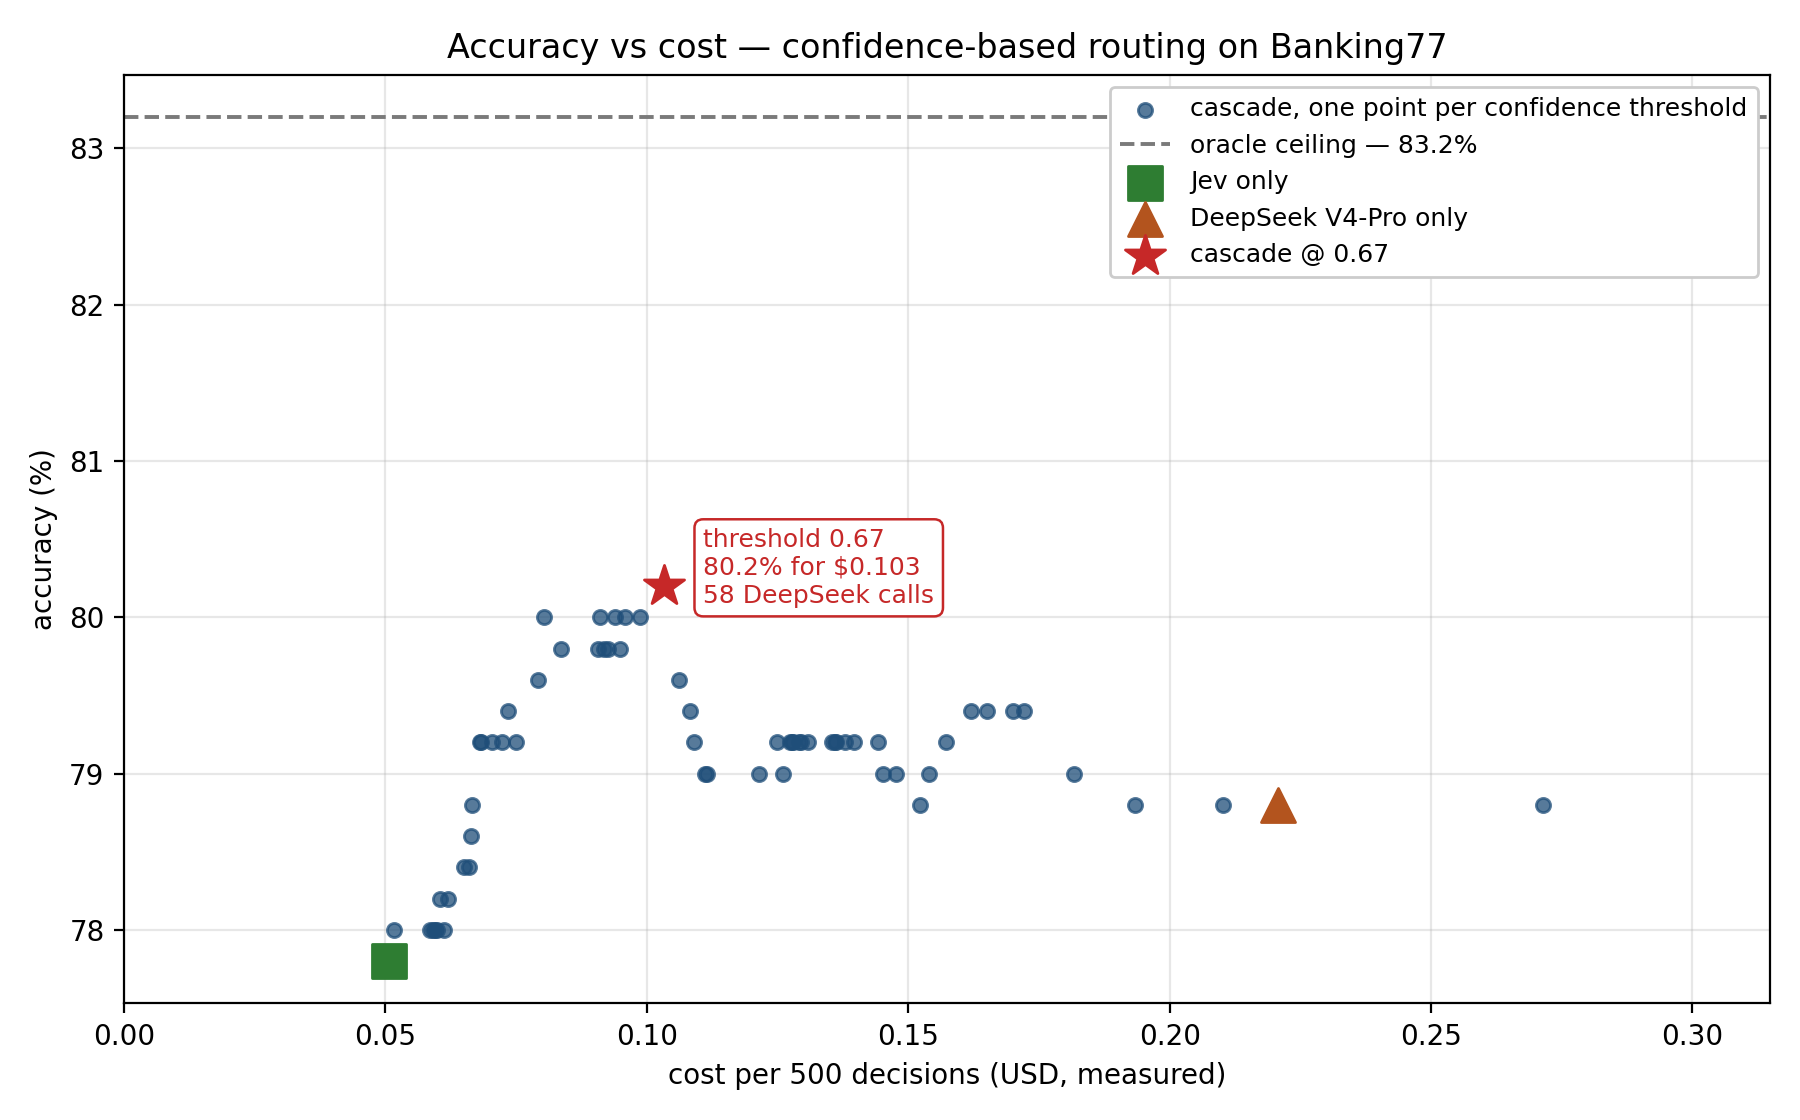
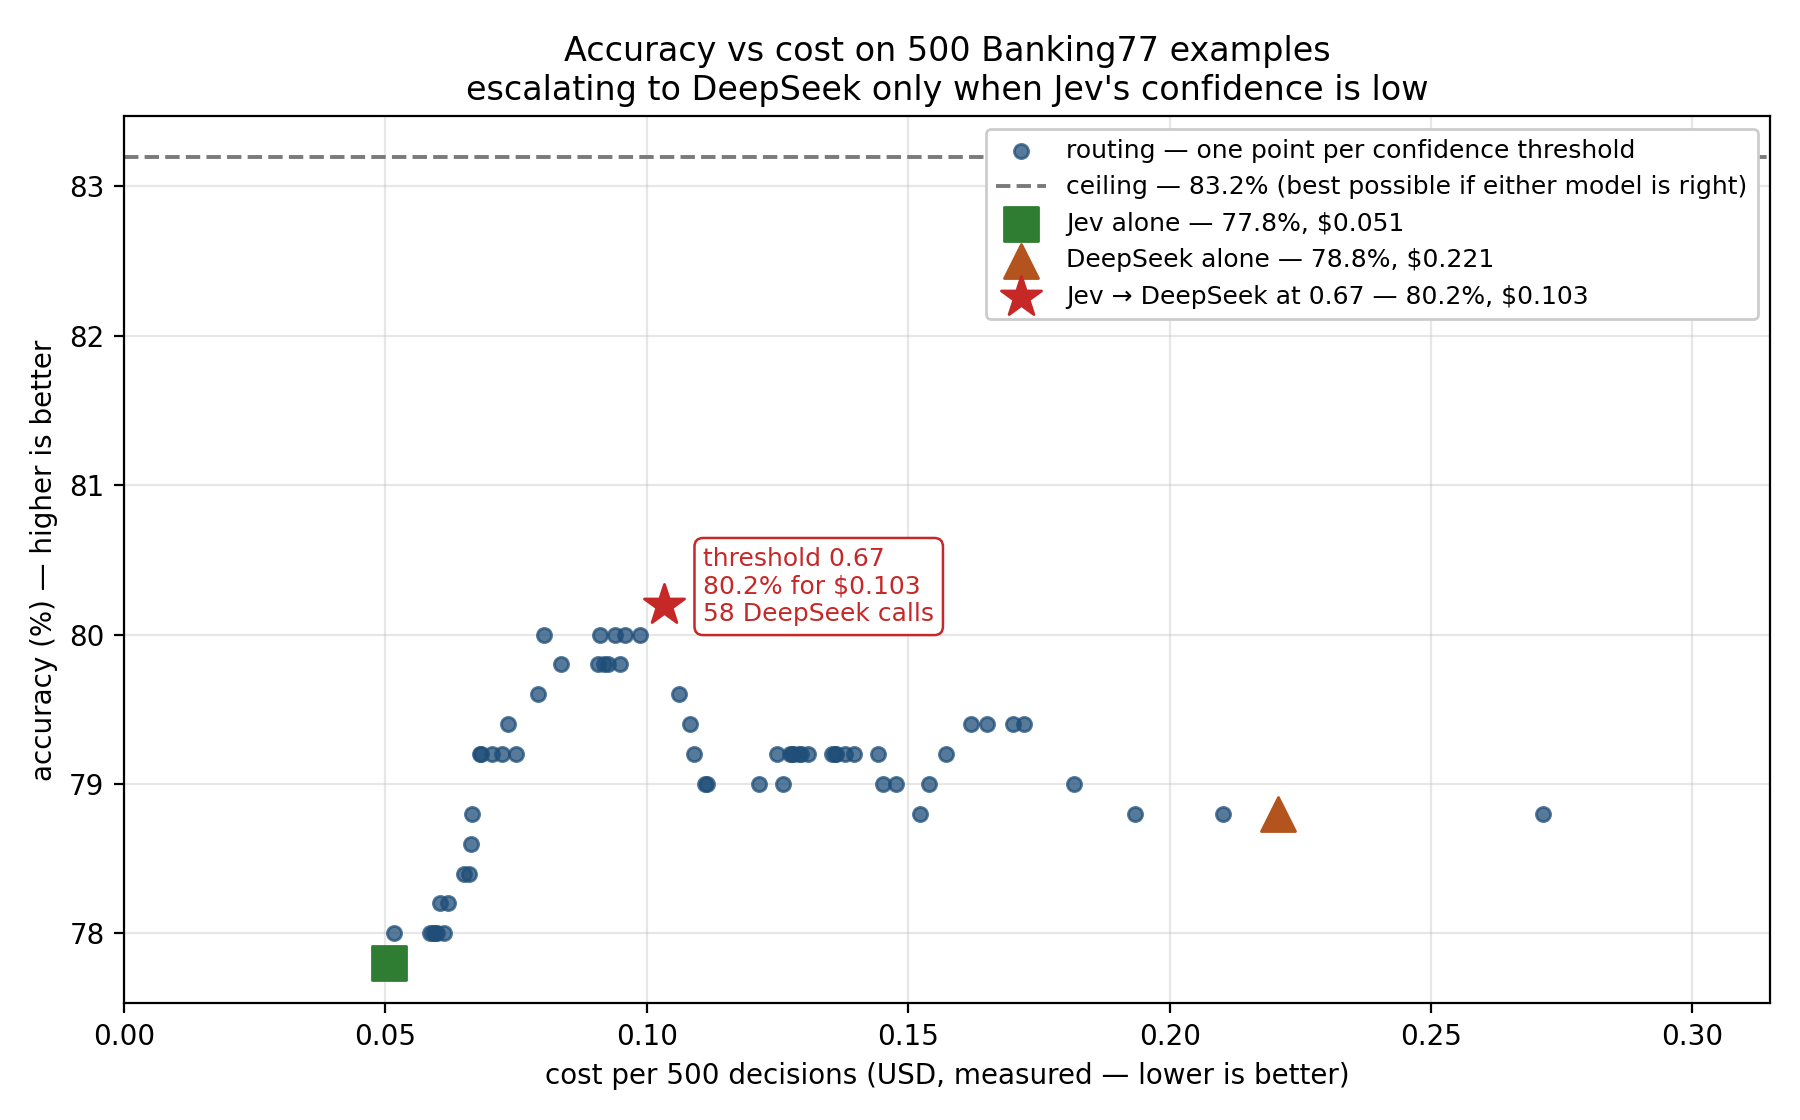
README: a plain-language opening, the figure on top, and a TL;DR
The scientific content is unchanged. This only builds a better front
door, so that someone who knows neither Jev nor calibration can see in a
few seconds that there is a result here and that it can be re-run.

A short hook now opens the file, followed immediately by the accuracy
versus cost figure and a three-bullet TL;DR, before the technical
paragraph. The previous one-line headline is removed: it said what the
hook's second paragraph now says, and it quoted a cost ratio, which is
not the point and depends on pricing and cache behaviour. Every figure in
the opening stays tied to the 500 Banking77 examples, and nothing claims
anything about Jev in general.

The figure is regenerated by cascade.py, not redrawn. Its labels lost
their jargon so it can be read without opening METHOD.md: the ceiling
line now explains itself as the best possible if either model is right,
the reference points carry their own numbers, the star reads as Jev to
DeepSeek at 0.67, and both axes say which direction is better. The cost
axis stays linear, so Jev alone remains visible at the left edge and
absolute costs stay comparable by eye.

Sections below the opening are untouched: Calibration and its
overconfidence line, the AUROC and bootstrap results, Agreement,
Limitations, Reproduction, Related work. The calibration figure stays in
the Calibration section, where it belongs.

diff --git a/src/cascade.py b/src/cascade.py
@@ -100,18 +100,24 @@ def plot_accuracy_vs_cost(results: list[dict], refs: dict, path: Path) -> None:
     xs = [s["cost"] for s in results]
     ys = [s["accuracy"] * 100 for s in results]
     ax.scatter(xs, ys, s=26, color="#1f4e79", alpha=0.75, zorder=3,
-               label="cascade, one point per confidence threshold")
+               label="routing — one point per confidence threshold")
 
+    # Libelles explicites : la figure doit se lire sans avoir ouvert METHOD.md.
     ax.axhline(refs["oracle"] * 100, linestyle="--", linewidth=1.4, color="#7a7a7a",
-               zorder=2, label=f"oracle ceiling — {refs['oracle']*100:.1f}%")
+               zorder=2,
+               label=f"ceiling — {refs['oracle']*100:.1f}% (best possible if either model is right)")
     ax.scatter([refs["jev_cost"]], [refs["jev_acc"] * 100], s=150, marker="s",
-               color="#2e7d32", zorder=5, label="Jev only")
+               color="#2e7d32", zorder=5,
+               label=f"Jev alone — {refs['jev_acc']*100:.1f}%, ${refs['jev_cost']:.3f}")
     ax.scatter([refs["frontier_cost"]], [refs["frontier_acc"] * 100], s=150, marker="^",
-               color="#b3541e", zorder=5, label="DeepSeek V4-Pro only")
+               color="#b3541e", zorder=5,
+               label=f"DeepSeek alone — {refs['frontier_acc']*100:.1f}%, ${refs['frontier_cost']:.3f}")
 
     best = max(results, key=lambda s: s["accuracy"])
     ax.scatter([best["cost"]], [best["accuracy"] * 100], s=230, marker="*",
-               color="#c62828", zorder=6, label=f"cascade @ {best['threshold']:.2f}")
+               color="#c62828", zorder=6,
+               label=f"Jev → DeepSeek at {best['threshold']:.2f} — "
+                     f"{best['accuracy']*100:.1f}%, ${best['cost']:.3f}")
     ax.annotate(
         f"threshold {best['threshold']:.2f}\n{best['accuracy']*100:.1f}% "
         f"for ${best['cost']:.3f}\n{best['n_escalated']} DeepSeek calls",
@@ -121,9 +127,11 @@ def plot_accuracy_vs_cost(results: list[dict], refs: dict, path: Path) -> None:
                   edgecolor="#c62828", linewidth=0.9),
     )
 
-    ax.set_xlabel("cost per 500 decisions (USD, measured)")
-    ax.set_ylabel("accuracy (%)")
-    ax.set_title("Accuracy vs cost — confidence-based routing on Banking77")
+    ax.set_xlabel("cost per 500 decisions (USD, measured — lower is better)")
+    ax.set_ylabel("accuracy (%) — higher is better")
+    ax.set_title("Accuracy vs cost on 500 Banking77 examples\n"
+                 "escalating to DeepSeek only when Jev's confidence is low",
+                 fontsize=12)
     ax.set_xlim(0, max(xs + [refs["frontier_cost"]]) * 1.16)
     ax.grid(alpha=0.3, zorder=0)
     # Coin haut-droit : le seul quadrant vide. En bas a droite la legende

diff --git a/README.md b/README.md
@@ -1,6 +1,18 @@
 # calibre
 
-On Banking77, routing on Jev's confidence reaches 80.2% accuracy at $0.103 per 500 decisions — higher accuracy than DeepSeek V4-Pro alone (78.8%) at 53% lower cost.
+> **Jev says it's 100% sure. Is it?** On 500 Banking77 examples, it's right 95.8% of
+> the time — and DeepSeek gives the identical answer on every one of those 238 cases.
+>
+> Routing on that signal reaches **80.2% accuracy at $0.1033 per 500 decisions**,
+> versus 78.8% at $0.2207 for DeepSeek alone.
+
+![Accuracy vs cost on 500 Banking77 examples. Each blue dot is one confidence threshold. Jev alone sits at 77.8% for $0.051, DeepSeek alone at 78.8% for $0.221, and routing at threshold 0.67 reaches 80.2% for $0.103 with 58 DeepSeek calls.](results/figures/accuracy_vs_cost.png)
+
+## TL;DR
+
+- **Jev alone:** 77.8% accuracy at $0.0507 / 500 decisions.
+- **DeepSeek alone:** 78.8% accuracy at $0.2207 / 500 decisions.
+- **Jev → DeepSeek at 0.67:** 80.2% accuracy at $0.1033 / 500 decisions, with DeepSeek called on 11.6% of requests.
 
 This repository measures the calibration of [TypeSafe](https://docs.typesafe.ai/)'s
 Jev decision model and evaluates **confidence-based routing**: a Jev → fallback
@@ -13,8 +25,6 @@ The protocol was frozen before any result was looked at
 analysis code are all in this repository.
 
 ## Results
-
-![Accuracy vs cost for confidence-based routing on Banking77. Each dot is one confidence threshold; the star marks the 0.67 threshold at 80.2% for $0.103.](results/figures/accuracy_vs_cost.png)
 
 500 examples from the Banking77 test split, 77 intent labels, one call per example.
 
